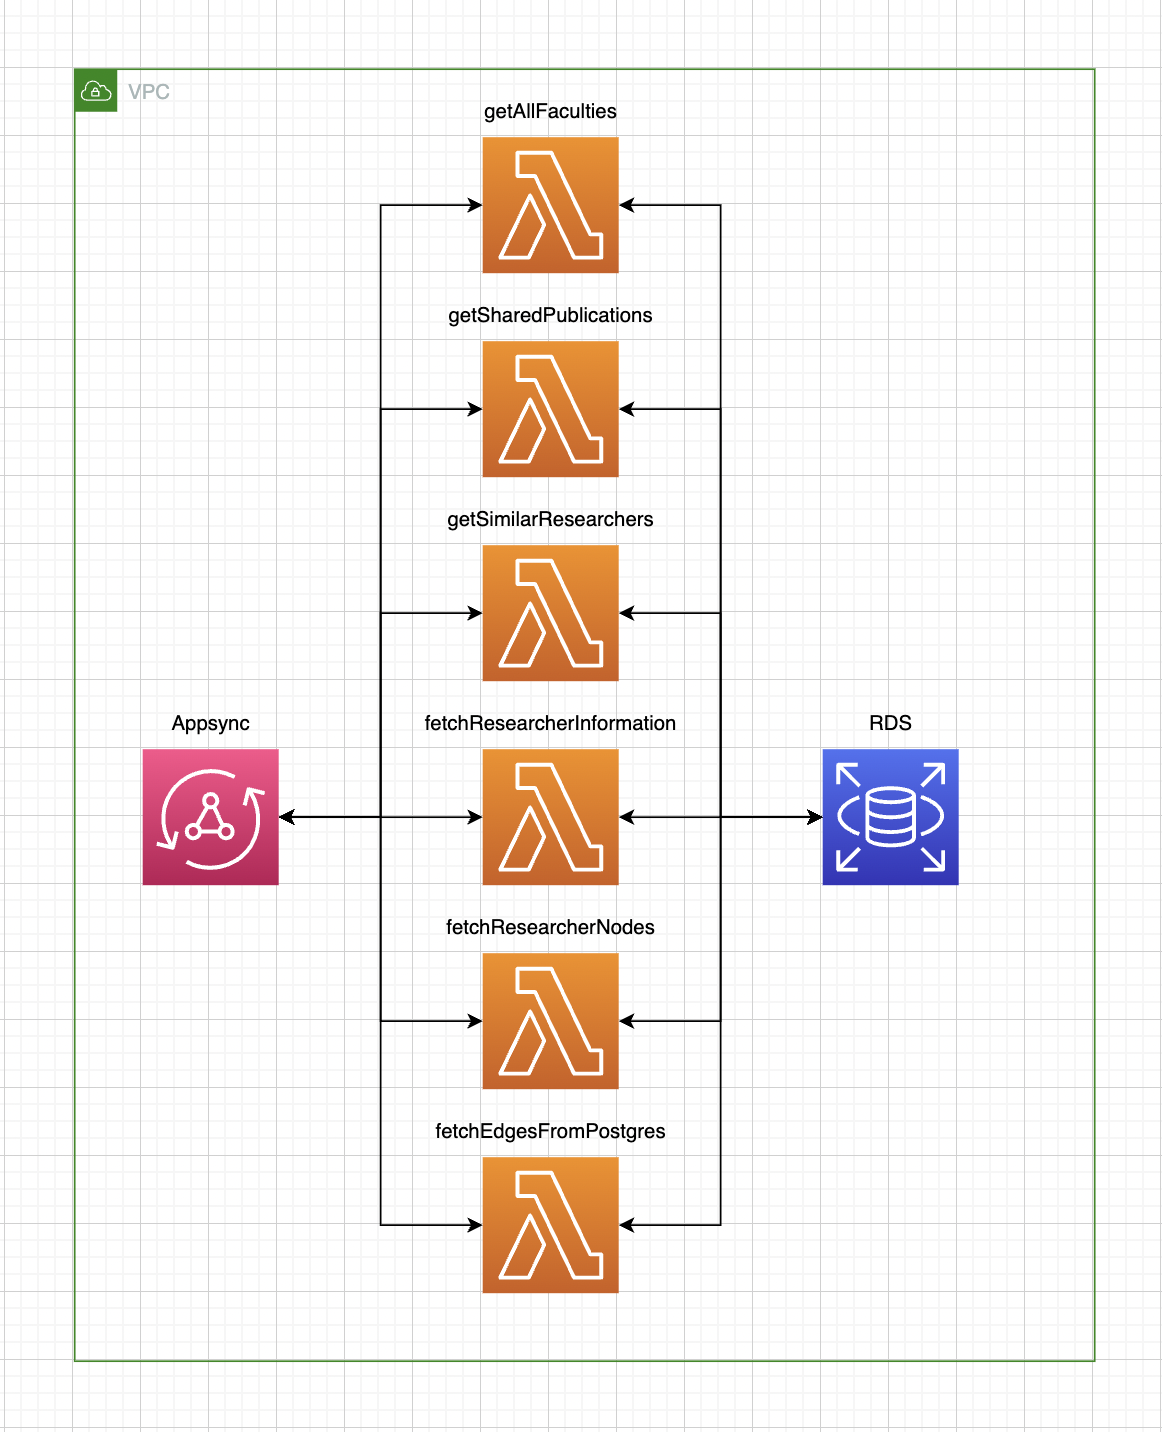
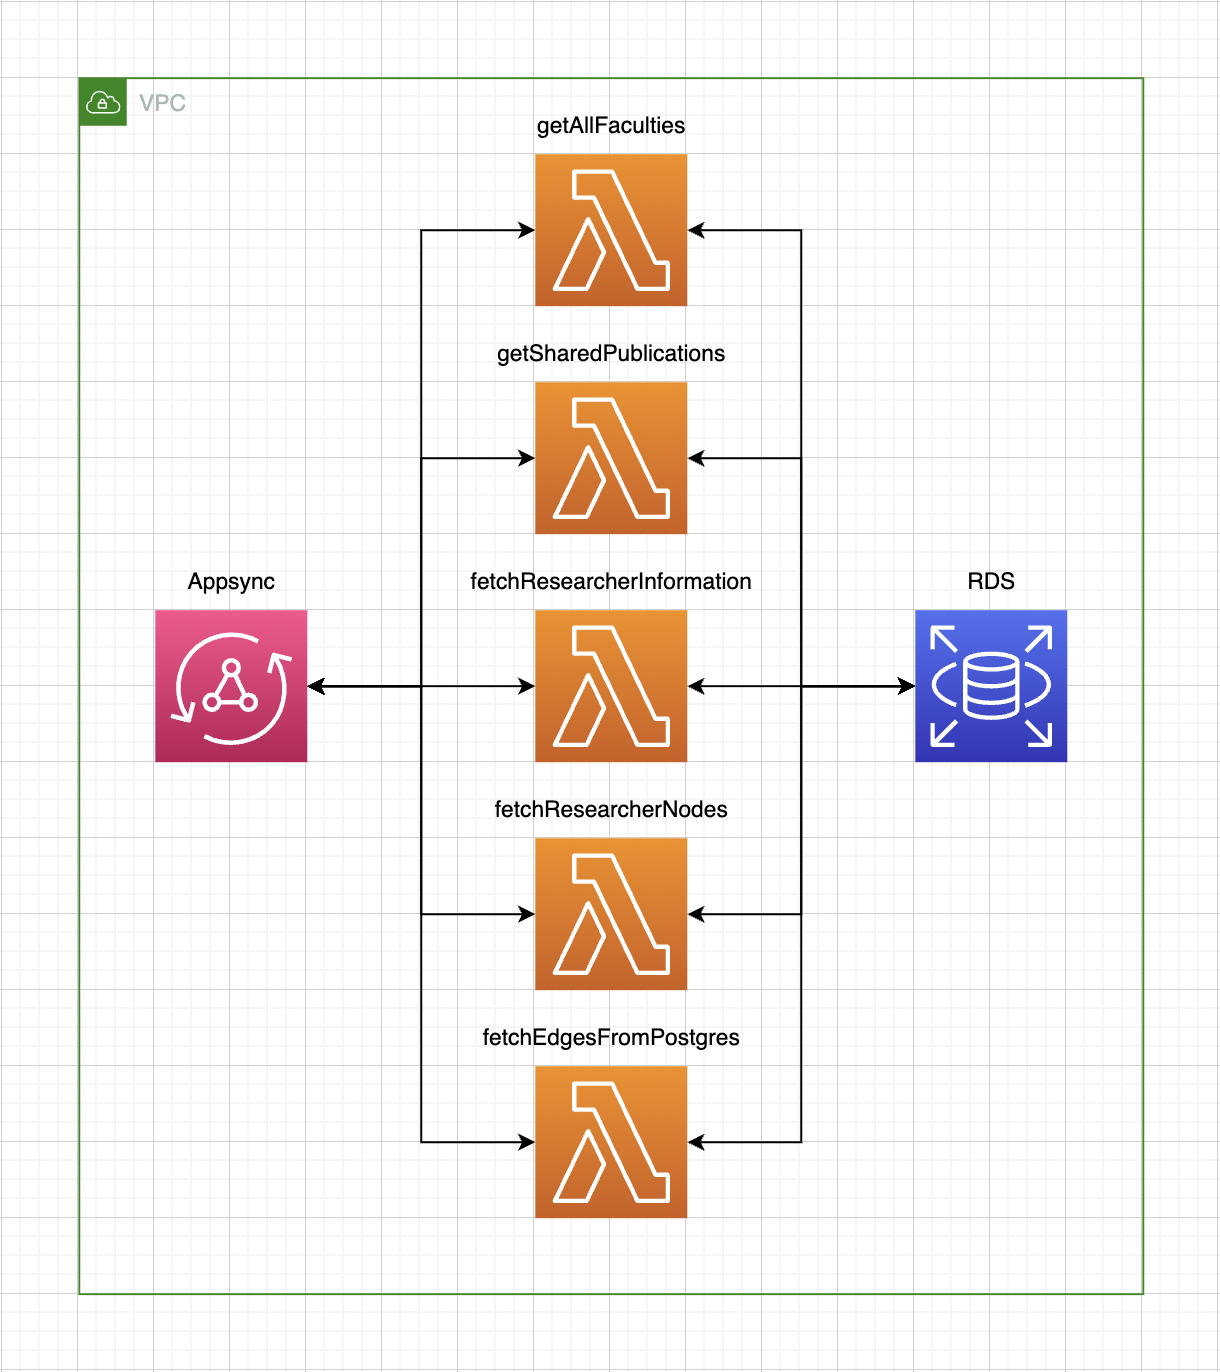
updated Github docs

diff --git a/docs/ArchitectureDeepDive.md b/docs/ArchitectureDeepDive.md
@@ -22,15 +22,13 @@
 
 ![Alt text](./images/KowledgeGraphLambdaDeepDive.png?raw=true "Lambda Architecture")
 
-<strong>getAllFaculties: </strong>
+<strong>getAllFaculties: </strong> The get faculties Lambda function returns a list of all the unique faculties in the database.
 
-<strong>getSharedPublications:</strong>
+<strong>getSharedPublications:</strong> The get shared publications Lambda has two inputs the ids of the two researchers. The Lambda then returns a list of publications that they share.
 
-<strong>getSimilarResearchers:</strong>
+<strong>fetchResearcherInformation:</strong> The fetch researcher information Lambda has one input the id of the researcher. The Lambda then return the researchers information.
 
-<strong>fetchResearcherInformation:</strong>
+<strong>fetchResearcherNodes:</strong> The fetch researcher nodes Lambda takes two inputs an array of faculties to filter on and the keywords to filter on. The Lambda then returns all the researcher nodes that meet the filters given as an input.
 
-<strong>fetchResearcherNodes:</strong>
-
-<strong>fetchEdgesFromPostgres:</strong>
+<strong>fetchEdgesFromPostgres:</strong> The fetch edges from postgres Lambda takes two inputs an array of faculties to filter on and the keywords to filter on. The Lambda then returns all the edges nodes that meet the filters given as an input.
 
